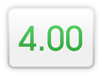
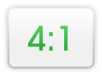
Add aspect ratios 1.81 & 4:1

Changed region(s): [[0.1765, 0.3158, 0.8235, 0.6842]]

diff --git a/DiamondTheme/Resources.Designer.cs b/DiamondTheme/Resources.Designer.cs
@@ -1803,6 +1803,20 @@ namespace Diamond {
             }
         }
         
+        internal static System.Drawing.Bitmap ratio_181 {
+            get {
+                object obj = ResourceManager.GetObject("ratio_181", resourceCulture);
+                return ((System.Drawing.Bitmap)(obj));
+            }
+        }
+        
+        internal static System.Drawing.Bitmap ratio_181_clr {
+            get {
+                object obj = ResourceManager.GetObject("ratio_181_clr", resourceCulture);
+                return ((System.Drawing.Bitmap)(obj));
+            }
+        }
+        
         internal static System.Drawing.Bitmap ratio_185 {
             get {
                 object obj = ResourceManager.GetObject("ratio_185", resourceCulture);
